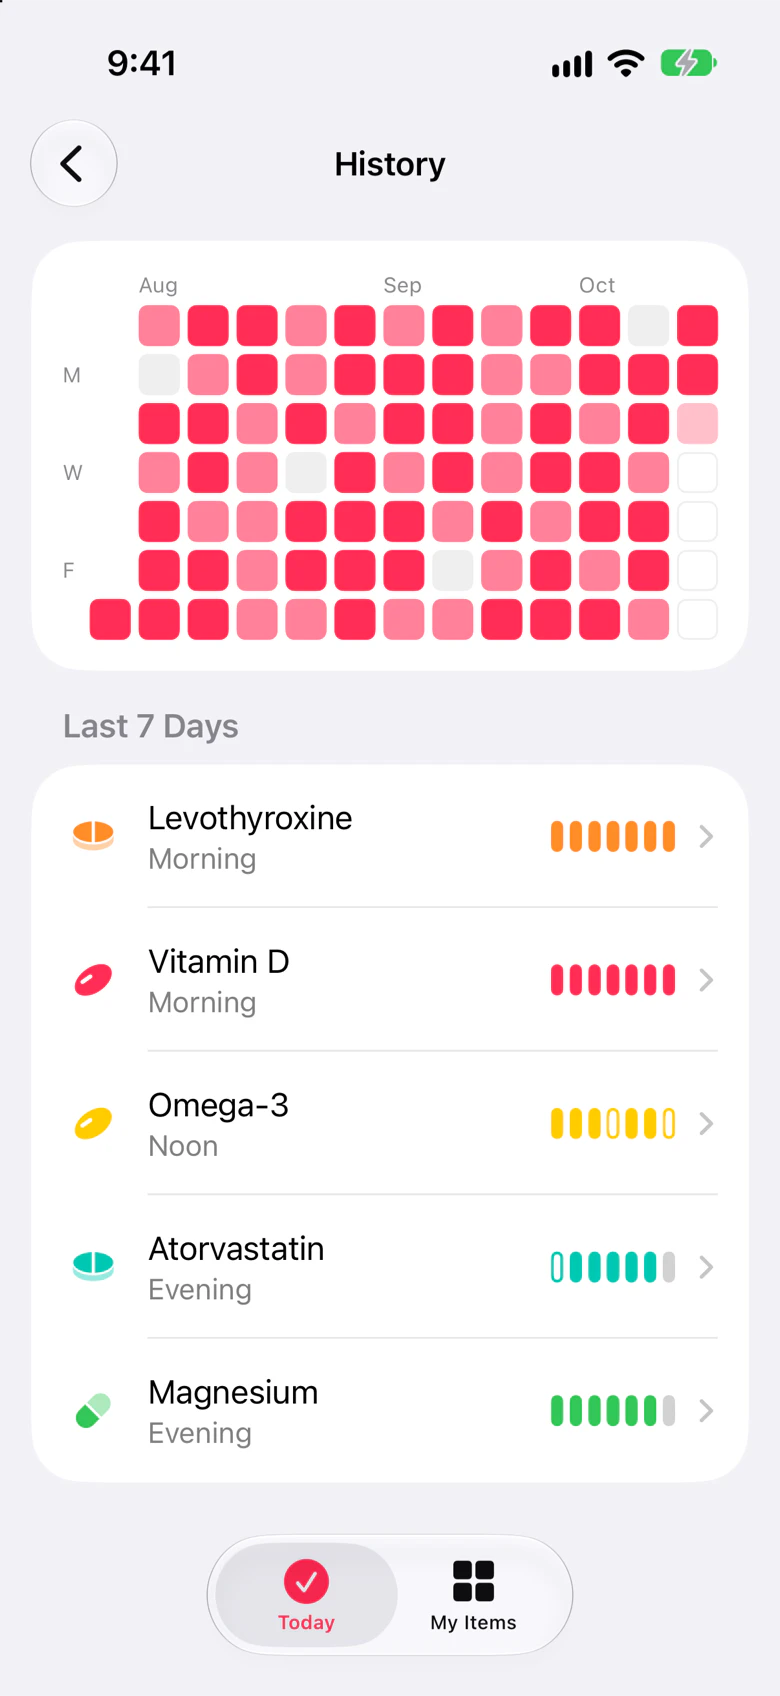
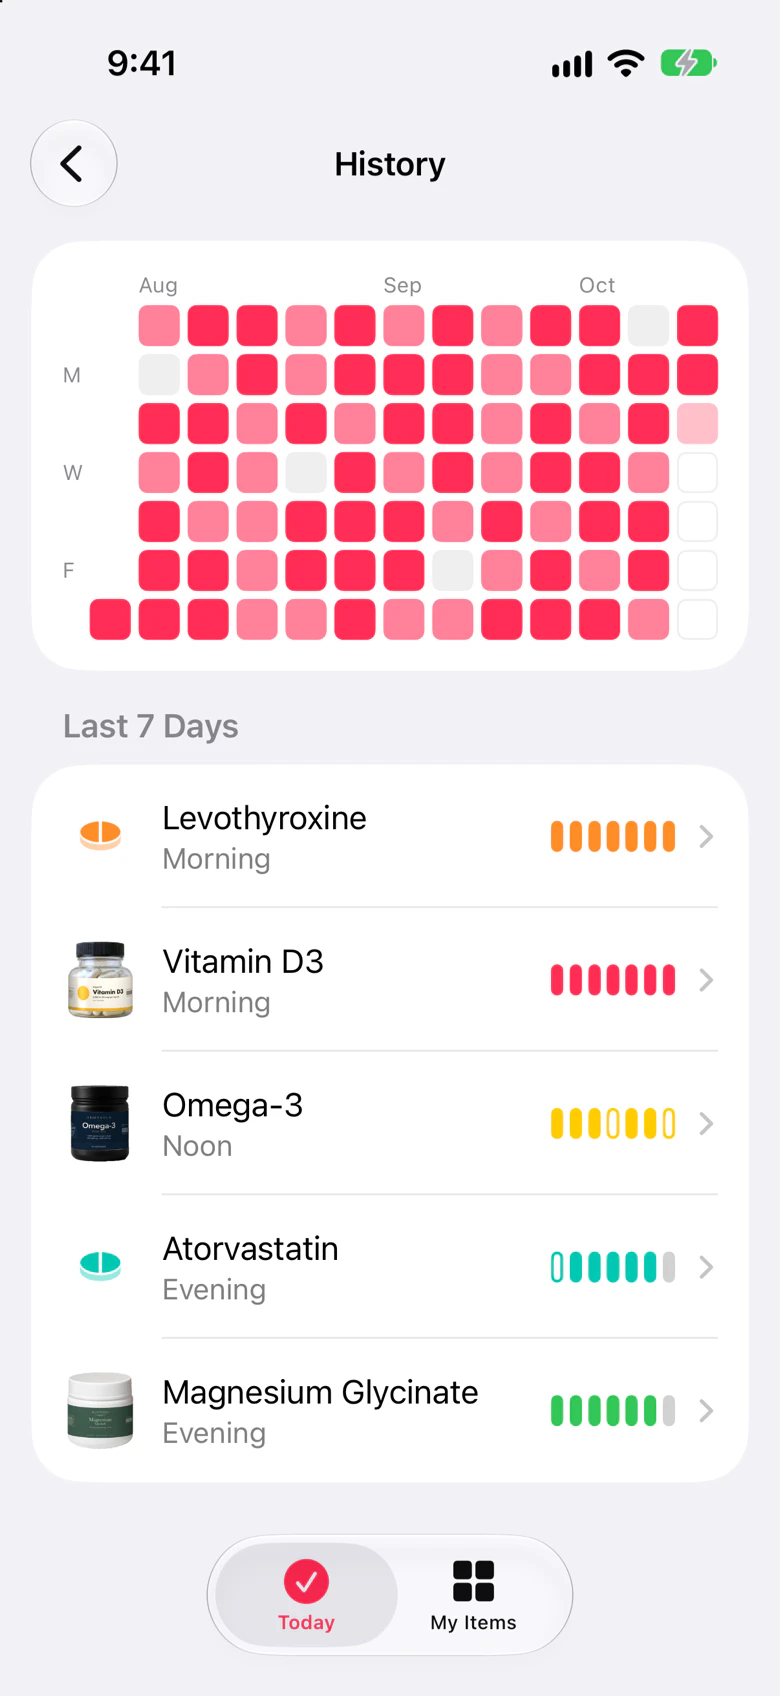
Recapture the app screenshots with the jar photos
Captures from main (D073) in six languages. Vitamin D3, Omega-3, and
Magnesium show their jar photos on Today, History, and the item page.

- The reminder and its alt text name Vitamin D3, as the sample items
  of every language do now.

diff --git a/site/jp/index.html b/site/jp/index.html
@@ -58,7 +58,7 @@
 </div>
 </section>
 <div class="wrap features">
-<article class="feature" data-reveal><div class="feature-copy"><h2 class="enter"><span class="nb">時間にお知らせ、</span><span class="nb">今日をひと目で</span></h2><p class="lede enter d1">決めた時間にMaruがお知らせし、今日の様子はウィジェットでわかります。</p></div><div class="feature-stage"><div class="wallpaper"><div class="mock mock-widget enter d2" role="img" aria-label="Maruの「今日」ウィジェット。5件中2件が服用済みで、朝・昼・夜に分かれています。"><div class="m-widget"><div class="m-widget-top"><b>今日</b><b>2/5</b></div><div class="m-cols"><div class="m-col"><b>朝</b><span class="m-time">7:00</span><span class="m-caps"><i class="on"></i><i class="on"></i></span></div><div class="m-col"><b class="now">昼</b><span class="m-time">12:30</span><span class="m-caps"><i class=""></i></span></div><div class="m-col"><b>夜</b><span class="m-time">21:00</span><span class="m-caps"><i class=""></i><i class=""></i></span></div></div></div></div><div class="mock mock-notification enter d3" role="img" aria-label="ビタミンDを飲む時間を知らせるMaruのリマインダー。"><div class="m-notif"><span class="m-app-icon"></span><span class="m-notif-text"><span class="m-notif-top"><b>服用の時間です</b><span class="m-now">今</span></span><span class="m-body">ビタミンD</span></span></div></div></div></div></article>
+<article class="feature" data-reveal><div class="feature-copy"><h2 class="enter"><span class="nb">時間にお知らせ、</span><span class="nb">今日をひと目で</span></h2><p class="lede enter d1">決めた時間にMaruがお知らせし、今日の様子はウィジェットでわかります。</p></div><div class="feature-stage"><div class="wallpaper"><div class="mock mock-widget enter d2" role="img" aria-label="Maruの「今日」ウィジェット。5件中2件が服用済みで、朝・昼・夜に分かれています。"><div class="m-widget"><div class="m-widget-top"><b>今日</b><b>2/5</b></div><div class="m-cols"><div class="m-col"><b>朝</b><span class="m-time">7:00</span><span class="m-caps"><i class="on"></i><i class="on"></i></span></div><div class="m-col"><b class="now">昼</b><span class="m-time">12:30</span><span class="m-caps"><i class=""></i></span></div><div class="m-col"><b>夜</b><span class="m-time">21:00</span><span class="m-caps"><i class=""></i><i class=""></i></span></div></div></div></div><div class="mock mock-notification enter d3" role="img" aria-label="ビタミンD3を飲む時間を知らせるMaruのリマインダー。"><div class="m-notif"><span class="m-app-icon"></span><span class="m-notif-text"><span class="m-notif-top"><b>服用の時間です</b><span class="m-now">今</span></span><span class="m-body">ビタミンD3</span></span></div></div></div></div></article>
 <article class="feature flip" data-reveal><div class="feature-copy"><h2 class="enter">飲んだ記録がひと目で</h2><p class="lede enter d1">数か月分の記録も、項目ごとの過去7日間もすぐ見られます。</p></div><div class="feature-stage enter d2"><div class="device"><div class="device-screen"><img src="/shots/history-ja.webp" width="780" height="1696" loading="lazy" decoding="async" alt="Maruの「履歴」画面。これまでの日々のグラフと、各項目の過去7日間が表示されています。"></div><span class="island" aria-hidden="true"></span></div></div></article>
 <article class="feature" data-reveal><div class="feature-copy"><h2 class="enter">時間と量をすぐ確認</h2><p class="lede enter d1">時刻、量、過去7日間をまとめて確認できます。</p></div><div class="feature-stage enter d2"><div class="device"><div class="device-screen"><img src="/shots/detail-ja.webp" width="780" height="1696" loading="lazy" decoding="async" alt="Maruの項目のページ。時刻、量、過去7日間が表示されています。"></div><span class="island" aria-hidden="true"></span></div></div></article>
 <article class="feature flip" data-reveal><div class="feature-copy"><h2 class="enter"><span class="nb">いつものボトルを</span><span class="nb">アイコンに</span></h2><p class="lede enter d1">自分のボトルの写真を撮るか選ぶと、その項目のアイコンになります。背景はiPhoneやiPadの中で取り除けて、写真はデバイスの外に出ません。</p></div><div class="feature-stage enter d2"><div class="jars" role="img" aria-label="架空のラベルが付いたサプリメントのボトル3つ。切り抜いて、Maruの項目アイコンにしたところ。"><img src="/shots/jar-omega3.webp" width="372" height="480" loading="lazy" decoding="async" alt=""><img src="/shots/jar-vitd3.webp" width="407" height="480" loading="lazy" decoding="async" alt=""><img src="/shots/jar-magnesium.webp" width="413" height="480" loading="lazy" decoding="async" alt=""></div></div></article>

diff --git a/site/kr/index.html b/site/kr/index.html
@@ -58,7 +58,7 @@
 </div>
 </section>
 <div class="wrap features">
-<article class="feature" data-reveal><div class="feature-copy"><h2 class="enter">알림 받고, 오늘을 한눈에</h2><p class="lede enter d1">내가 정한 시간에 Maru가 알려 주고, 위젯에서 오늘 하루를 볼 수 있어요.</p></div><div class="feature-stage"><div class="wallpaper"><div class="mock mock-widget enter d2" role="img" aria-label="Maru의 오늘 위젯. 5개 중 2개를 복용했고 아침, 점심, 저녁으로 나뉘어 있어요."><div class="m-widget"><div class="m-widget-top"><b>오늘</b><b>2/5</b></div><div class="m-cols"><div class="m-col"><b>아침</b><span class="m-time">오전 7:00</span><span class="m-caps"><i class="on"></i><i class="on"></i></span></div><div class="m-col"><b class="now">점심</b><span class="m-time">오후 12:30</span><span class="m-caps"><i class=""></i></span></div><div class="m-col"><b>저녁</b><span class="m-time">오후 9:00</span><span class="m-caps"><i class=""></i><i class=""></i></span></div></div></div></div><div class="mock mock-notification enter d3" role="img" aria-label="비타민 D 먹을 시간을 알리는 Maru 미리 알림."><div class="m-notif"><span class="m-app-icon"></span><span class="m-notif-text"><span class="m-notif-top"><b>복용할 시간</b><span class="m-now">지금</span></span><span class="m-body">비타민 D</span></span></div></div></div></div></article>
+<article class="feature" data-reveal><div class="feature-copy"><h2 class="enter">알림 받고, 오늘을 한눈에</h2><p class="lede enter d1">내가 정한 시간에 Maru가 알려 주고, 위젯에서 오늘 하루를 볼 수 있어요.</p></div><div class="feature-stage"><div class="wallpaper"><div class="mock mock-widget enter d2" role="img" aria-label="Maru의 오늘 위젯. 5개 중 2개를 복용했고 아침, 점심, 저녁으로 나뉘어 있어요."><div class="m-widget"><div class="m-widget-top"><b>오늘</b><b>2/5</b></div><div class="m-cols"><div class="m-col"><b>아침</b><span class="m-time">오전 7:00</span><span class="m-caps"><i class="on"></i><i class="on"></i></span></div><div class="m-col"><b class="now">점심</b><span class="m-time">오후 12:30</span><span class="m-caps"><i class=""></i></span></div><div class="m-col"><b>저녁</b><span class="m-time">오후 9:00</span><span class="m-caps"><i class=""></i><i class=""></i></span></div></div></div></div><div class="mock mock-notification enter d3" role="img" aria-label="비타민 D3 먹을 시간을 알리는 Maru 미리 알림."><div class="m-notif"><span class="m-app-icon"></span><span class="m-notif-text"><span class="m-notif-top"><b>복용할 시간</b><span class="m-now">지금</span></span><span class="m-body">비타민 D3</span></span></div></div></div></div></article>
 <article class="feature flip" data-reveal><div class="feature-copy"><h2 class="enter">먹은 기록을 한눈에</h2><p class="lede enter d1">몇 달 치 기록도, 항목별 최근 7일도 바로 볼 수 있어요.</p></div><div class="feature-stage enter d2"><div class="device"><div class="device-screen"><img src="/shots/history-ko.webp" width="780" height="1696" loading="lazy" decoding="async" alt="지난 날들의 그래프와 항목별 최근 7일이 보이는 Maru의 내역 화면."></div><span class="island" aria-hidden="true"></span></div></div></article>
 <article class="feature" data-reveal><div class="feature-copy"><h2 class="enter">시간과 용량을 한눈에</h2><p class="lede enter d1">시간, 용량, 최근 7일을 한곳에서 확인해요.</p></div><div class="feature-stage enter d2"><div class="device"><div class="device-screen"><img src="/shots/detail-ko.webp" width="780" height="1696" loading="lazy" decoding="async" alt="시간, 용량, 최근 7일이 보이는 Maru의 항목 페이지."></div><span class="island" aria-hidden="true"></span></div></div></article>
 <article class="feature flip" data-reveal><div class="feature-copy"><h2 class="enter"><span class="nb">내 약통을 그대로</span> <span class="nb">아이콘으로</span></h2><p class="lede enter d1">내 약통 사진을 찍거나 고르면 그 항목의 아이콘이 돼요. 배경은 iPhone이나 iPad 안에서 지울 수 있고, 사진은 기기 밖으로 나가지 않아요.</p></div><div class="feature-stage enter d2"><div class="jars" role="img" aria-label="가상의 라벨을 붙인 영양제 통 세 개를 오려 Maru의 항목 아이콘으로 쓴 모습."><img src="/shots/jar-omega3.webp" width="372" height="480" loading="lazy" decoding="async" alt=""><img src="/shots/jar-vitd3.webp" width="407" height="480" loading="lazy" decoding="async" alt=""><img src="/shots/jar-magnesium.webp" width="413" height="480" loading="lazy" decoding="async" alt=""></div></div></article>

diff --git a/site/cn/index.html b/site/cn/index.html
@@ -58,7 +58,7 @@
 </div>
 </section>
 <div class="wrap features">
-<article class="feature" data-reveal><div class="feature-copy"><h2 class="enter">到点提醒，一眼看全</h2><p class="lede enter d1">Maru 按你定的时间提醒，小组件上能看到今天的情况。</p></div><div class="feature-stage"><div class="wallpaper"><div class="mock mock-widget enter d2" role="img" aria-label="Maru 的“今天”小组件：5 项里已服用 2 项，分为早上、中午和晚上。"><div class="m-widget"><div class="m-widget-top"><b>今天</b><b>2/5</b></div><div class="m-cols"><div class="m-col"><b>早上</b><span class="m-time">7:00</span><span class="m-caps"><i class="on"></i><i class="on"></i></span></div><div class="m-col"><b class="now">中午</b><span class="m-time">12:30</span><span class="m-caps"><i class=""></i></span></div><div class="m-col"><b>晚上</b><span class="m-time">21:00</span><span class="m-caps"><i class=""></i><i class=""></i></span></div></div></div></div><div class="mock mock-notification enter d3" role="img" aria-label="Maru 的提醒：该吃维生素 D 了。"><div class="m-notif"><span class="m-app-icon"></span><span class="m-notif-text"><span class="m-notif-top"><b>该服用了</b><span class="m-now">现在</span></span><span class="m-body">维生素 D</span></span></div></div></div></div></article>
+<article class="feature" data-reveal><div class="feature-copy"><h2 class="enter">到点提醒，一眼看全</h2><p class="lede enter d1">Maru 按你定的时间提醒，小组件上能看到今天的情况。</p></div><div class="feature-stage"><div class="wallpaper"><div class="mock mock-widget enter d2" role="img" aria-label="Maru 的“今天”小组件：5 项里已服用 2 项，分为早上、中午和晚上。"><div class="m-widget"><div class="m-widget-top"><b>今天</b><b>2/5</b></div><div class="m-cols"><div class="m-col"><b>早上</b><span class="m-time">7:00</span><span class="m-caps"><i class="on"></i><i class="on"></i></span></div><div class="m-col"><b class="now">中午</b><span class="m-time">12:30</span><span class="m-caps"><i class=""></i></span></div><div class="m-col"><b>晚上</b><span class="m-time">21:00</span><span class="m-caps"><i class=""></i><i class=""></i></span></div></div></div></div><div class="mock mock-notification enter d3" role="img" aria-label="Maru 的提醒：该吃维生素 D3 了。"><div class="m-notif"><span class="m-app-icon"></span><span class="m-notif-text"><span class="m-notif-top"><b>该服用了</b><span class="m-now">现在</span></span><span class="m-body">维生素 D3</span></span></div></div></div></div></article>
 <article class="feature flip" data-reveal><div class="feature-copy"><h2 class="enter">吃过什么，一目了然</h2><p class="lede enter d1">几个月的记录一眼看完，每个项目的最近 7 天也在这里。</p></div><div class="feature-stage enter d2"><div class="device"><div class="device-screen"><img src="/shots/history-zh-Hans.webp" width="780" height="1696" loading="lazy" decoding="async" alt="Maru 的“历史记录”界面，有过去每一天的图表和每个项目最近 7 天的记录。"></div><span class="island" aria-hidden="true"></span></div></div></article>
 <article class="feature" data-reveal><div class="feature-copy"><h2 class="enter">时间和用量，一页看清</h2><p class="lede enter d1">时间、用量和最近 7 天，都在这一页。</p></div><div class="feature-stage enter d2"><div class="device"><div class="device-screen"><img src="/shots/detail-zh-Hans.webp" width="780" height="1696" loading="lazy" decoding="async" alt="Maru 中一个项目的页面，有时间、用量和最近 7 天的记录。"></div><span class="island" aria-hidden="true"></span></div></div></article>
 <article class="feature flip" data-reveal><div class="feature-copy"><h2 class="enter"><span class="nb">你的药瓶，</span><span class="nb">就是图标</span></h2><p class="lede enter d1">拍一张或选一张自己药瓶的照片，它就成了这个项目的图标。Maru 可以直接在你的 iPhone 或 iPad 上去掉背景，照片只留在你的设备里。</p></div><div class="feature-stage enter d2"><div class="jars" role="img" aria-label="三个贴着虚构标签的保健品瓶，抠图后成为 Maru 里的项目图标。"><img src="/shots/jar-omega3.webp" width="372" height="480" loading="lazy" decoding="async" alt=""><img src="/shots/jar-vitd3.webp" width="407" height="480" loading="lazy" decoding="async" alt=""><img src="/shots/jar-magnesium.webp" width="413" height="480" loading="lazy" decoding="async" alt=""></div></div></article>

diff --git a/site/es/index.html b/site/es/index.html
@@ -58,7 +58,7 @@
 </div>
 </section>
 <div class="wrap features">
-<article class="feature" data-reveal><div class="feature-copy"><h2 class="enter">Recordatorios y tu día de un vistazo</h2><p class="lede enter d1">Maru te avisa a tus horas, y el widget muestra tu día.</p></div><div class="feature-stage"><div class="wallpaper"><div class="mock mock-widget enter d2" role="img" aria-label="El widget Hoy de Maru: 2 de 5 tomados, con Mañana, Mediodía y Noche."><div class="m-widget"><div class="m-widget-top"><b>Hoy</b><b>2 de 5</b></div><div class="m-cols"><div class="m-col"><b>Mañana</b><span class="m-time">7:00</span><span class="m-caps"><i class="on"></i><i class="on"></i></span></div><div class="m-col"><b class="now">Mediodía</b><span class="m-time">12:30</span><span class="m-caps"><i class=""></i></span></div><div class="m-col"><b>Noche</b><span class="m-time">21:00</span><span class="m-caps"><i class=""></i><i class=""></i></span></div></div></div></div><div class="mock mock-notification enter d3" role="img" aria-label="Un recordatorio de Maru para tomar la vitamina D."><div class="m-notif"><span class="m-app-icon"></span><span class="m-notif-text"><span class="m-notif-top"><b>Hora de tomar</b><span class="m-now">ahora</span></span><span class="m-body">Vitamina D</span></span></div></div></div></div></article>
+<article class="feature" data-reveal><div class="feature-copy"><h2 class="enter">Recordatorios y tu día de un vistazo</h2><p class="lede enter d1">Maru te avisa a tus horas, y el widget muestra tu día.</p></div><div class="feature-stage"><div class="wallpaper"><div class="mock mock-widget enter d2" role="img" aria-label="El widget Hoy de Maru: 2 de 5 tomados, con Mañana, Mediodía y Noche."><div class="m-widget"><div class="m-widget-top"><b>Hoy</b><b>2 de 5</b></div><div class="m-cols"><div class="m-col"><b>Mañana</b><span class="m-time">7:00</span><span class="m-caps"><i class="on"></i><i class="on"></i></span></div><div class="m-col"><b class="now">Mediodía</b><span class="m-time">12:30</span><span class="m-caps"><i class=""></i></span></div><div class="m-col"><b>Noche</b><span class="m-time">21:00</span><span class="m-caps"><i class=""></i><i class=""></i></span></div></div></div></div><div class="mock mock-notification enter d3" role="img" aria-label="Un recordatorio de Maru para tomar la vitamina D3."><div class="m-notif"><span class="m-app-icon"></span><span class="m-notif-text"><span class="m-notif-top"><b>Hora de tomar</b><span class="m-now">ahora</span></span><span class="m-body">Vitamina D3</span></span></div></div></div></div></article>
 <article class="feature flip" data-reveal><div class="feature-copy"><h2 class="enter">Mira lo que tomaste</h2><p class="lede enter d1">Meses enteros de un vistazo, y los últimos siete días de cada elemento.</p></div><div class="feature-stage enter d2"><div class="device"><div class="device-screen"><img src="/shots/history-es.webp" width="780" height="1696" loading="lazy" decoding="async" alt="La pantalla Historial de Maru con un gráfico de los días pasados y los últimos 7 días de cada elemento."></div><span class="island" aria-hidden="true"></span></div></div></article>
 <article class="feature" data-reveal><div class="feature-copy"><h2 class="enter">Consulta horas y cantidades</h2><p class="lede enter d1">Consulta sus horas, su cantidad y sus últimos siete días.</p></div><div class="feature-stage enter d2"><div class="device"><div class="device-screen"><img src="/shots/detail-es.webp" width="780" height="1696" loading="lazy" decoding="async" alt="La página de un elemento en Maru con sus horas, su cantidad y sus últimos 7 días."></div><span class="island" aria-hidden="true"></span></div></div></article>
 <article class="feature flip" data-reveal><div class="feature-copy"><h2 class="enter"><span class="nb">Tu frasco,</span> <span class="nb">tu icono</span></h2><p class="lede enter d1">Haz o elige una foto de tu propio frasco y será el icono del elemento. Maru puede quitar el fondo en tu iPhone o iPad, y la foto se queda en tu dispositivo.</p></div><div class="feature-stage enter d2"><div class="jars" role="img" aria-label="Tres frascos de suplementos con etiquetas inventadas, recortados como iconos de elementos en Maru."><img src="/shots/jar-omega3.webp" width="372" height="480" loading="lazy" decoding="async" alt=""><img src="/shots/jar-vitd3.webp" width="407" height="480" loading="lazy" decoding="async" alt=""><img src="/shots/jar-magnesium.webp" width="413" height="480" loading="lazy" decoding="async" alt=""></div></div></article>

diff --git a/site/index.html b/site/index.html
@@ -58,7 +58,7 @@
 </div>
 </section>
 <div class="wrap features">
-<article class="feature" data-reveal><div class="feature-copy"><h2 class="enter">Reminders and today at a glance</h2><p class="lede enter d1">Maru reminds you at your times, and the widget shows your day.</p></div><div class="feature-stage"><div class="wallpaper"><div class="mock mock-widget enter d2" role="img" aria-label="The Maru Today widget: 2 of 5 taken, with Morning, Noon, and Evening."><div class="m-widget"><div class="m-widget-top"><b>Today</b><b>2 of 5</b></div><div class="m-cols"><div class="m-col"><b>Morning</b><span class="m-time">7:00 AM</span><span class="m-caps"><i class="on"></i><i class="on"></i></span></div><div class="m-col"><b class="now">Noon</b><span class="m-time">12:30 PM</span><span class="m-caps"><i class=""></i></span></div><div class="m-col"><b>Evening</b><span class="m-time">9:00 PM</span><span class="m-caps"><i class=""></i><i class=""></i></span></div></div></div></div><div class="mock mock-notification enter d3" role="img" aria-label="A Maru reminder to take Vitamin D."><div class="m-notif"><span class="m-app-icon"></span><span class="m-notif-text"><span class="m-notif-top"><b>Time to take</b><span class="m-now">now</span></span><span class="m-body">Vitamin D</span></span></div></div></div></div></article>
+<article class="feature" data-reveal><div class="feature-copy"><h2 class="enter">Reminders and today at a glance</h2><p class="lede enter d1">Maru reminds you at your times, and the widget shows your day.</p></div><div class="feature-stage"><div class="wallpaper"><div class="mock mock-widget enter d2" role="img" aria-label="The Maru Today widget: 2 of 5 taken, with Morning, Noon, and Evening."><div class="m-widget"><div class="m-widget-top"><b>Today</b><b>2 of 5</b></div><div class="m-cols"><div class="m-col"><b>Morning</b><span class="m-time">7:00 AM</span><span class="m-caps"><i class="on"></i><i class="on"></i></span></div><div class="m-col"><b class="now">Noon</b><span class="m-time">12:30 PM</span><span class="m-caps"><i class=""></i></span></div><div class="m-col"><b>Evening</b><span class="m-time">9:00 PM</span><span class="m-caps"><i class=""></i><i class=""></i></span></div></div></div></div><div class="mock mock-notification enter d3" role="img" aria-label="A Maru reminder to take Vitamin D3."><div class="m-notif"><span class="m-app-icon"></span><span class="m-notif-text"><span class="m-notif-top"><b>Time to take</b><span class="m-now">now</span></span><span class="m-body">Vitamin D3</span></span></div></div></div></div></article>
 <article class="feature flip" data-reveal><div class="feature-copy"><h2 class="enter">See what you took</h2><p class="lede enter d1">See months at a glance, and the last seven days of every item.</p></div><div class="feature-stage enter d2"><div class="device"><div class="device-screen"><img src="/shots/history-en.webp" width="780" height="1696" loading="lazy" decoding="async" alt="The History screen of Maru with a graph of past days and the last 7 days of each item."></div><span class="island" aria-hidden="true"></span></div></div></article>
 <article class="feature" data-reveal><div class="feature-copy"><h2 class="enter">Check times and amounts</h2><p class="lede enter d1">See its times, its amount, and its last seven days.</p></div><div class="feature-stage enter d2"><div class="device"><div class="device-screen"><img src="/shots/detail-en.webp" width="780" height="1696" loading="lazy" decoding="async" alt="The page of one item in Maru with its times, its amount, and its last 7 days."></div><span class="island" aria-hidden="true"></span></div></div></article>
 <article class="feature flip" data-reveal><div class="feature-copy"><h2 class="enter">Your bottle, your icon</h2><p class="lede enter d1">Take or choose a photo of your own bottle, and it becomes the item icon. Maru can remove the background on your iPhone or iPad, and the photo stays on your device.</p></div><div class="feature-stage enter d2"><div class="jars" role="img" aria-label="Three supplement jars with made-up labels, cut out as item icons in Maru."><img src="/shots/jar-omega3.webp" width="372" height="480" loading="lazy" decoding="async" alt=""><img src="/shots/jar-vitd3.webp" width="407" height="480" loading="lazy" decoding="async" alt=""><img src="/shots/jar-magnesium.webp" width="413" height="480" loading="lazy" decoding="async" alt=""></div></div></article>
